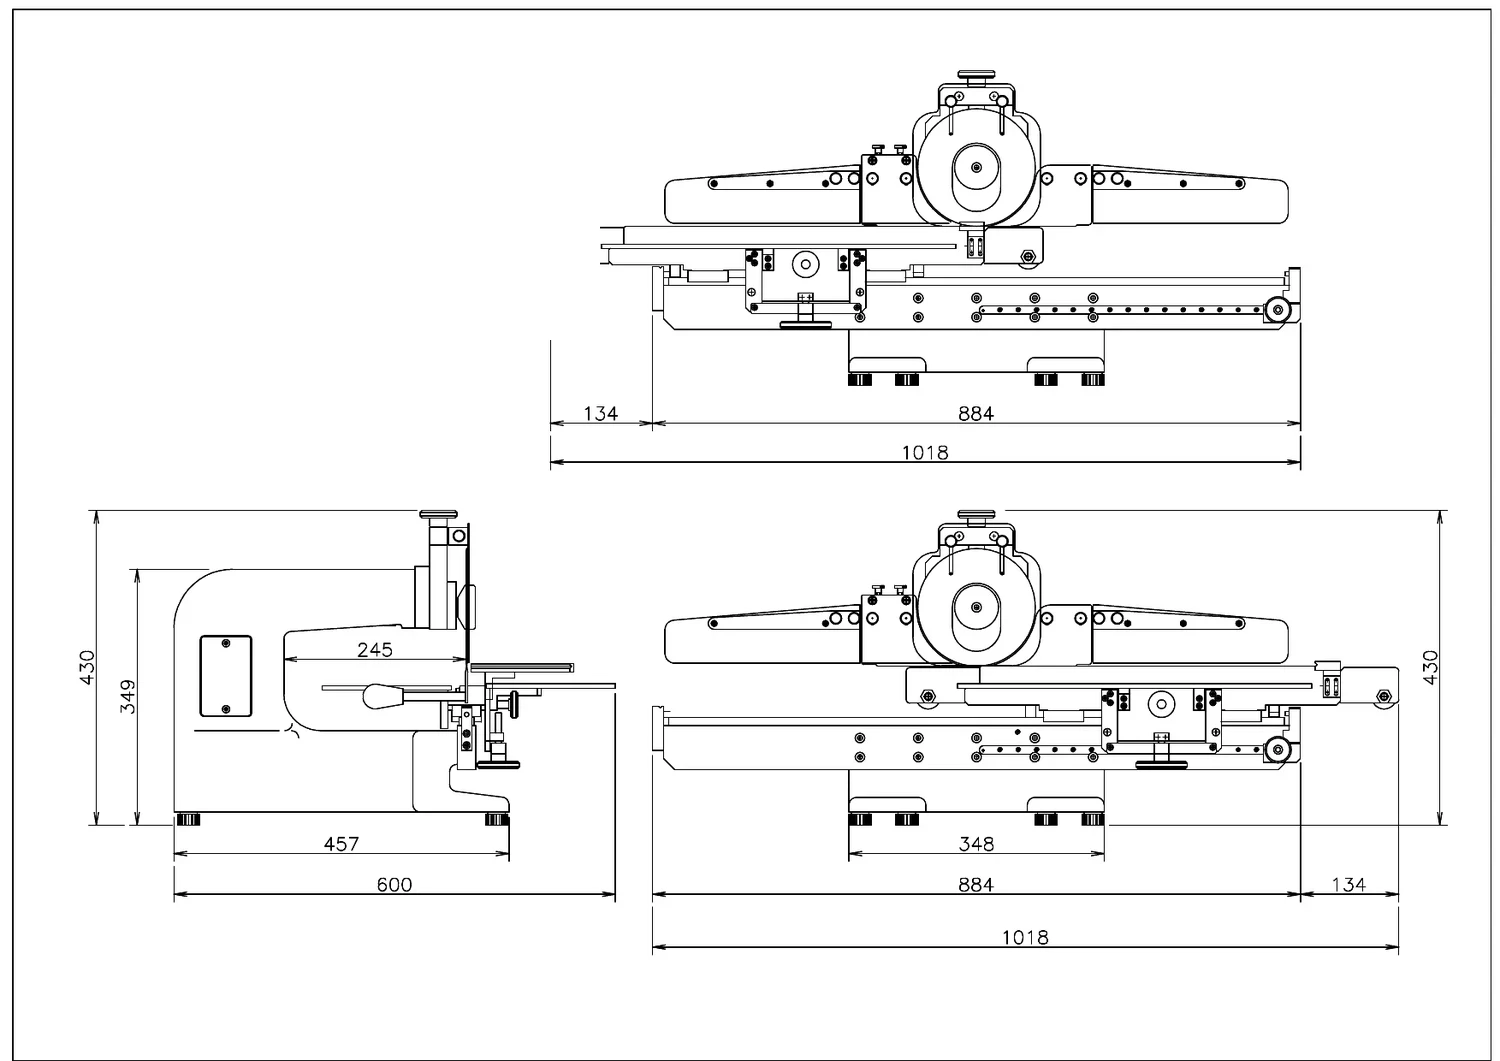
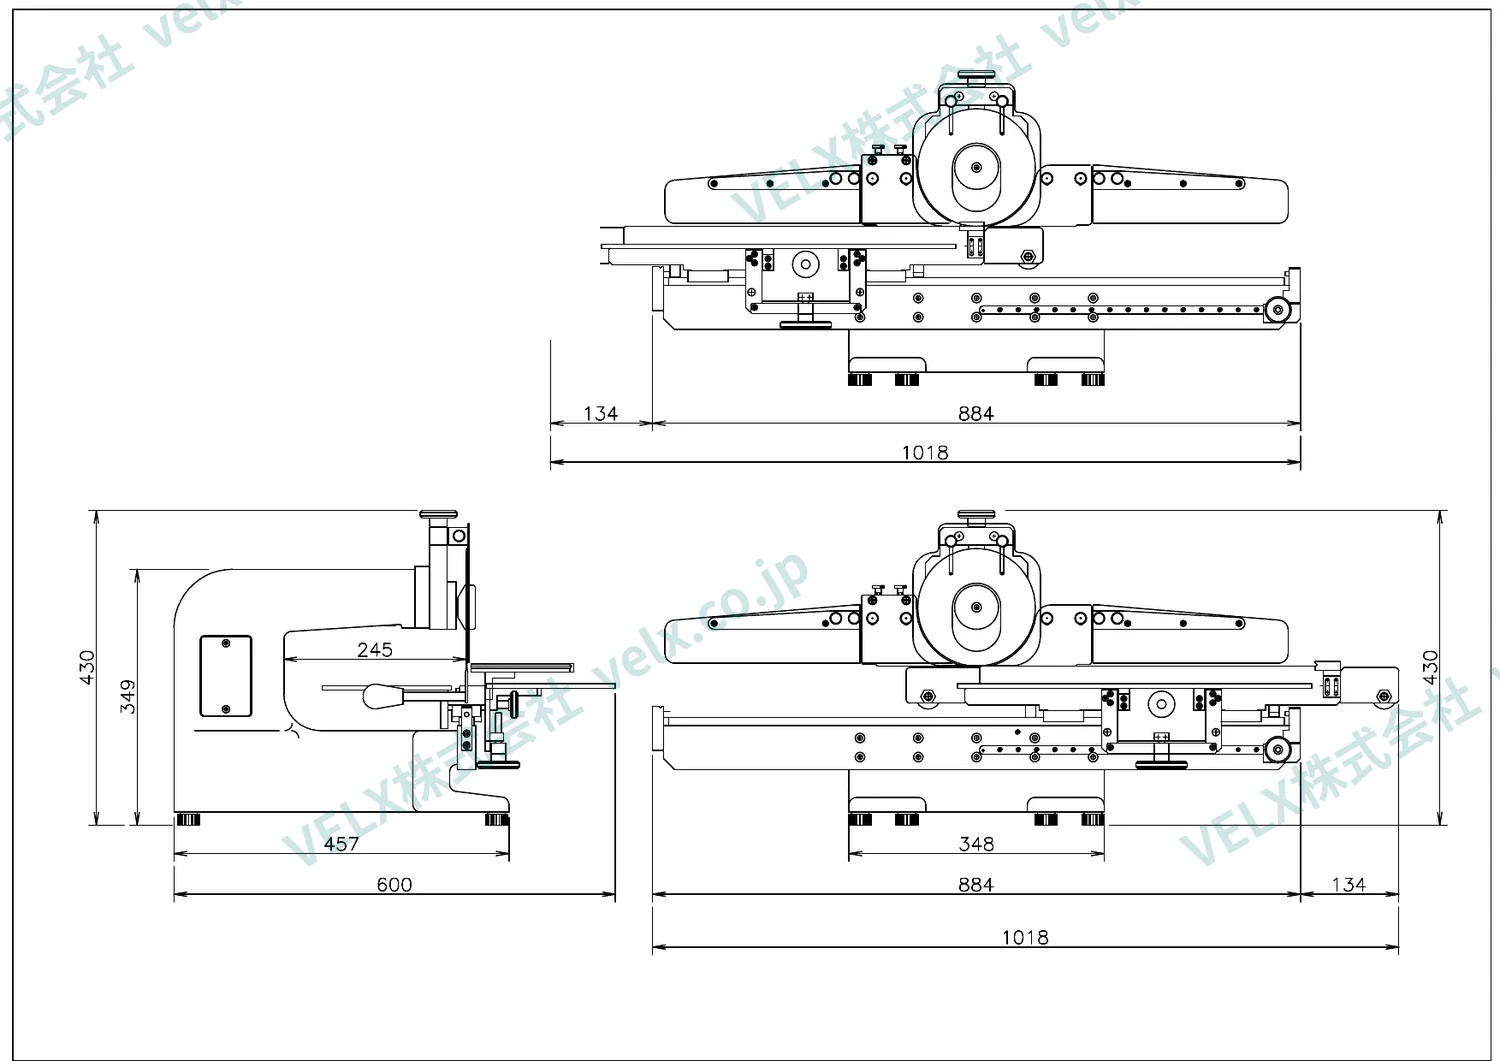
図面に透かし（VELX株式会社 velx.co.jp）、画像の右クリック・ドラッグ抑止、無断転載禁止の表記を追加
Claude-Session: https://claude.ai/code/session_01LHPKKem9uMo18WqyhMpJ4j

diff --git a/products-splitter.html b/products-splitter.html
@@ -177,10 +177,10 @@
   <div class="note-box">1次側と2次側の両方に隙間調整機構を搭載。高密度実装基板や難しいV溝仕様の基板のひずみをさらに低減します。分割対応基板：FR4・CEM3・紙フェノール・アルミ・銅基板（V溝加工済みのもの）。分割方式は全機種とも手動（リニアスライス方式）、上刃・下刃はチタンIP処理です。</div>
   <div class="subh">外形図</div>
   <div class="dwg-grid">
-    <div class="dwg-card reveal"><div class="dwg-head"><span class="dwg-model">MS20</span><span class="dwg-note">外形図（単位：mm）</span></div><img src="images/dwg-ms20.webp" alt="MS20 外形図（単位：mm）" style="max-width:820px;margin:0 auto;"></div>
-    <div class="dwg-card reveal"><div class="dwg-head"><span class="dwg-model">MS25</span><span class="dwg-note">外形図（単位：mm）</span></div><img src="images/dwg-ms25.webp" alt="MS25 外形図（単位：mm）" style="max-width:760px;margin:0 auto;"></div>
-    <div class="dwg-card reveal"><div class="dwg-head"><span class="dwg-model">MW21</span><span class="dwg-note">外形図（単位：mm）</span></div><img src="images/dwg-mw21.webp" alt="MW21 外形図（単位：mm）" style="max-width:800px;margin:0 auto;"></div>
-    <div class="dwg-card reveal"><div class="dwg-head"><span class="dwg-model">MW25</span><span class="dwg-note">外形図（単位：mm）</span></div><img src="images/dwg-mw25.webp" alt="MW25 外形図（単位：mm）" style="max-width:760px;margin:0 auto;"></div>
+    <div class="dwg-card reveal"><div class="dwg-head"><span class="dwg-model">MS20</span><span class="dwg-note">外形図（単位：mm）　※無断転載を禁じます</span></div><img src="images/dwg-ms20.webp" alt="MS20 外形図（単位：mm）" style="max-width:820px;margin:0 auto;"></div>
+    <div class="dwg-card reveal"><div class="dwg-head"><span class="dwg-model">MS25</span><span class="dwg-note">外形図（単位：mm）　※無断転載を禁じます</span></div><img src="images/dwg-ms25.webp" alt="MS25 外形図（単位：mm）" style="max-width:760px;margin:0 auto;"></div>
+    <div class="dwg-card reveal"><div class="dwg-head"><span class="dwg-model">MW21</span><span class="dwg-note">外形図（単位：mm）　※無断転載を禁じます</span></div><img src="images/dwg-mw21.webp" alt="MW21 外形図（単位：mm）" style="max-width:800px;margin:0 auto;"></div>
+    <div class="dwg-card reveal"><div class="dwg-head"><span class="dwg-model">MW25</span><span class="dwg-note">外形図（単位：mm）　※無断転載を禁じます</span></div><img src="images/dwg-mw25.webp" alt="MW25 外形図（単位：mm）" style="max-width:760px;margin:0 auto;"></div>
   </div>
   <div class="subh">交換刃</div>
   <table class="stbl">
@@ -247,7 +247,7 @@
     </div>
   </div>
   <div class="footer-bottom">
-    <span class="footer-copy">© 2026 VELX株式会社. All Rights Reserved.</span>
+    <span class="footer-copy">© 2026 VELX株式会社. All Rights Reserved.<div class="footer-notice">当サイトに掲載の図面・写真・文章の無断転載・複製を禁じます。</div></span>
     <span class="footer-copy" style="opacity:0.5">velx.co.jp</span>
   </div>
 </footer>

diff --git a/products-motor.html b/products-motor.html
@@ -147,9 +147,9 @@
   <p class="crk-p" style="margin-top:12px;">上刃（EMD16 系）・モーター・切替機構・コントロールユニット・電力仕様は3機種で共通です。</p>
   <div class="subh">外形図</div>
   <div class="dwg-grid">
-    <div class="dwg-card reveal"><div class="dwg-head"><span class="dwg-model">EM260M</span><span class="dwg-note">外形図（単位：mm）</span></div><img src="images/dwg-em260m.webp" alt="EM260M 外形図（単位：mm）" style="max-width:880px;margin:0 auto;"></div>
-    <div class="dwg-card reveal"><div class="dwg-head"><span class="dwg-model">EM360M</span><span class="dwg-note">外形図（単位：mm）</span></div><img src="images/dwg-em360m.webp" alt="EM360M 外形図（単位：mm）" style="max-width:880px;margin:0 auto;"></div>
-    <div class="dwg-card reveal"><div class="dwg-head"><span class="dwg-model">EM460M</span><span class="dwg-note">外形図（単位：mm）</span></div><img src="images/dwg-em460m.webp" alt="EM460M 外形図（単位：mm）" style="max-width:880px;margin:0 auto;"></div>
+    <div class="dwg-card reveal"><div class="dwg-head"><span class="dwg-model">EM260M</span><span class="dwg-note">外形図（単位：mm）　※無断転載を禁じます</span></div><img src="images/dwg-em260m.webp" alt="EM260M 外形図（単位：mm）" style="max-width:880px;margin:0 auto;"></div>
+    <div class="dwg-card reveal"><div class="dwg-head"><span class="dwg-model">EM360M</span><span class="dwg-note">外形図（単位：mm）　※無断転載を禁じます</span></div><img src="images/dwg-em360m.webp" alt="EM360M 外形図（単位：mm）" style="max-width:880px;margin:0 auto;"></div>
+    <div class="dwg-card reveal"><div class="dwg-head"><span class="dwg-model">EM460M</span><span class="dwg-note">外形図（単位：mm）　※無断転載を禁じます</span></div><img src="images/dwg-em460m.webp" alt="EM460M 外形図（単位：mm）" style="max-width:880px;margin:0 auto;"></div>
   </div>
   <div class="note-box reveal">交換刃はシングル機種（手動）と共通です（上刃 EMD系／下刃 EML系）。</div>
 </section>
@@ -208,7 +208,7 @@
     </div>
   </div>
   <div class="footer-bottom">
-    <span class="footer-copy">© 2026 VELX株式会社. All Rights Reserved.</span>
+    <span class="footer-copy">© 2026 VELX株式会社. All Rights Reserved.<div class="footer-notice">当サイトに掲載の図面・写真・文章の無断転載・複製を禁じます。</div></span>
     <span class="footer-copy" style="opacity:0.5">velx.co.jp</span>
   </div>
 </footer>

diff --git a/products-single.html b/products-single.html
@@ -155,9 +155,9 @@
   </div>
   <div class="subh">外形図</div>
   <div class="dwg-grid">
-    <div class="dwg-card reveal"><div class="dwg-head"><span class="dwg-model">EM260</span><span class="dwg-note">外形図（単位：mm）</span></div><img src="images/dwg-em260.webp" alt="EM260 外形図（単位：mm）" style="max-width:880px;margin:0 auto;"></div>
-    <div class="dwg-card reveal"><div class="dwg-head"><span class="dwg-model">EM360</span><span class="dwg-note">外形図（単位：mm）</span></div><img src="images/dwg-em360.webp" alt="EM360 外形図（単位：mm）" style="max-width:880px;margin:0 auto;"></div>
-    <div class="dwg-card reveal"><div class="dwg-head"><span class="dwg-model">EM460</span><span class="dwg-note">外形図（単位：mm）</span></div><img src="images/dwg-em460.webp" alt="EM460 外形図（単位：mm）" style="max-width:880px;margin:0 auto;"></div>
+    <div class="dwg-card reveal"><div class="dwg-head"><span class="dwg-model">EM260</span><span class="dwg-note">外形図（単位：mm）　※無断転載を禁じます</span></div><img src="images/dwg-em260.webp" alt="EM260 外形図（単位：mm）" style="max-width:880px;margin:0 auto;"></div>
+    <div class="dwg-card reveal"><div class="dwg-head"><span class="dwg-model">EM360</span><span class="dwg-note">外形図（単位：mm）　※無断転載を禁じます</span></div><img src="images/dwg-em360.webp" alt="EM360 外形図（単位：mm）" style="max-width:880px;margin:0 auto;"></div>
+    <div class="dwg-card reveal"><div class="dwg-head"><span class="dwg-model">EM460</span><span class="dwg-note">外形図（単位：mm）　※無断転載を禁じます</span></div><img src="images/dwg-em460.webp" alt="EM460 外形図（単位：mm）" style="max-width:880px;margin:0 auto;"></div>
   </div>
   <div class="subh">交換刃</div>
   <div class="two-col">
@@ -236,7 +236,7 @@
     </div>
   </div>
   <div class="footer-bottom">
-    <span class="footer-copy">© 2026 VELX株式会社. All Rights Reserved.</span>
+    <span class="footer-copy">© 2026 VELX株式会社. All Rights Reserved.<div class="footer-notice">当サイトに掲載の図面・写真・文章の無断転載・複製を禁じます。</div></span>
     <span class="footer-copy" style="opacity:0.5">velx.co.jp</span>
   </div>
 </footer>

diff --git a/products-double.html b/products-double.html
@@ -141,8 +141,8 @@
   </div>
   <div class="subh">外形図</div>
   <div class="dwg-grid">
-    <div class="dwg-card reveal"><div class="dwg-head"><span class="dwg-model">EMW360</span><span class="dwg-note">外形図（単位：mm）</span></div><img src="images/dwg-emw360.webp" alt="EMW360 外形図（単位：mm）" style="max-width:880px;margin:0 auto;"></div>
-    <div class="dwg-card reveal"><div class="dwg-head"><span class="dwg-model">EMW460</span><span class="dwg-note">外形図（単位：mm）</span></div><img src="images/dwg-emw460.webp" alt="EMW460 外形図（単位：mm）" style="max-width:880px;margin:0 auto;"></div>
+    <div class="dwg-card reveal"><div class="dwg-head"><span class="dwg-model">EMW360</span><span class="dwg-note">外形図（単位：mm）　※無断転載を禁じます</span></div><img src="images/dwg-emw360.webp" alt="EMW360 外形図（単位：mm）" style="max-width:880px;margin:0 auto;"></div>
+    <div class="dwg-card reveal"><div class="dwg-head"><span class="dwg-model">EMW460</span><span class="dwg-note">外形図（単位：mm）　※無断転載を禁じます</span></div><img src="images/dwg-emw460.webp" alt="EMW460 外形図（単位：mm）" style="max-width:880px;margin:0 auto;"></div>
   </div>
   <div class="subh">交換刃</div>
   <table class="stbl">
@@ -207,7 +207,7 @@
     </div>
   </div>
   <div class="footer-bottom">
-    <span class="footer-copy">© 2026 VELX株式会社. All Rights Reserved.</span>
+    <span class="footer-copy">© 2026 VELX株式会社. All Rights Reserved.<div class="footer-notice">当サイトに掲載の図面・写真・文章の無断転載・複製を禁じます。</div></span>
     <span class="footer-copy" style="opacity:0.5">velx.co.jp</span>
   </div>
 </footer>

diff --git a/products-disc.html b/products-disc.html
@@ -144,7 +144,7 @@
   </div>
   <div class="subh">外形図</div>
   <div class="dwg-grid">
-    <div class="dwg-card reveal"><div class="dwg-head"><span class="dwg-model">EM-2DF</span><span class="dwg-note">外形図（単位：mm）</span></div><img src="images/dwg-em2df.webp" alt="EM-2DF 外形図（単位：mm）" style="max-width:880px;margin:0 auto;"></div>
+    <div class="dwg-card reveal"><div class="dwg-head"><span class="dwg-model">EM-2DF</span><span class="dwg-note">外形図（単位：mm）　※無断転載を禁じます</span></div><img src="images/dwg-em2df.webp" alt="EM-2DF 外形図（単位：mm）" style="max-width:880px;margin:0 auto;"></div>
   </div>
   <div class="warn-box reveal">⚠ 上下丸刃タイプは点接触のため、V溝際に衝撃に弱い部品が実装されている場合は基板仕様の確認が必要です。中抜き基板・部品がV溝際にある場合はシングル／ダブル機種をご検討ください。EM-2DF は基板の部品ひずみテストを行ったうえでの販売となります。</div>
 </section>
@@ -203,7 +203,7 @@
     </div>
   </div>
   <div class="footer-bottom">
-    <span class="footer-copy">© 2026 VELX株式会社. All Rights Reserved.</span>
+    <span class="footer-copy">© 2026 VELX株式会社. All Rights Reserved.<div class="footer-notice">当サイトに掲載の図面・写真・文章の無断転載・複製を禁じます。</div></span>
     <span class="footer-copy" style="opacity:0.5">velx.co.jp</span>
   </div>
 </footer>

diff --git a/assets/site.css b/assets/site.css
@@ -864,3 +864,8 @@ table.stbl th { background: var(--silver-light); font-weight: 500; white-space: 
 .crumbs { font-size: 0.82rem; color: var(--silver-dark); margin-bottom: 26px; }
 .crumbs a { color: var(--silver-dark); text-decoration: none; }
 .crumbs a:hover { color: var(--teal); }
+
+/* 画像の保存・ドラッグ抑止（2026-09-07） */
+img, svg { -webkit-user-drag: none; user-drag: none; -webkit-user-select: none; user-select: none; -webkit-touch-callout: none; }
+.dwg-card img { pointer-events: none; }
+.footer-notice { font-size: 0.72rem; color: rgba(255,255,255,0.35); margin-top: 8px; line-height: 1.7; }

diff --git a/assets/site.js b/assets/site.js
@@ -15,3 +15,7 @@ const observer = new IntersectionObserver(entries => {
   entries.forEach(e => { if (e.isIntersecting) e.target.classList.add('visible'); });
 }, { threshold: 0.08, rootMargin: '0px 0px -40px 0px' });
 document.querySelectorAll('.reveal').forEach(el => observer.observe(el));
+
+// 画像の右クリック・ドラッグ・長押し保存の抑止（2026-09-07）
+document.addEventListener('contextmenu', e => { if (e.target.closest('img, svg, .dwg-card')) e.preventDefault(); });
+document.addEventListener('dragstart', e => { if (e.target.closest('img, svg')) e.preventDefault(); });

diff --git a/blade.html b/blade.html
@@ -179,7 +179,7 @@
     </div>
   </div>
   <div class="footer-bottom">
-    <span class="footer-copy">© 2026 VELX株式会社. All Rights Reserved.</span>
+    <span class="footer-copy">© 2026 VELX株式会社. All Rights Reserved.<div class="footer-notice">当サイトに掲載の図面・写真・文章の無断転載・複製を禁じます。</div></span>
     <span class="footer-copy" style="opacity:0.5">velx.co.jp</span>
   </div>
 </footer>

diff --git a/features.html b/features.html
@@ -308,7 +308,7 @@
     </div>
   </div>
   <div class="footer-bottom">
-    <span class="footer-copy">© 2026 VELX株式会社. All Rights Reserved.</span>
+    <span class="footer-copy">© 2026 VELX株式会社. All Rights Reserved.<div class="footer-notice">当サイトに掲載の図面・写真・文章の無断転載・複製を禁じます。</div></span>
     <span class="footer-copy" style="opacity:0.5">velx.co.jp</span>
   </div>
 </footer>

diff --git a/index.html b/index.html
@@ -441,7 +441,7 @@
     </div>
   </div>
   <div class="footer-bottom">
-    <span class="footer-copy">© 2026 VELX株式会社. All Rights Reserved.</span>
+    <span class="footer-copy">© 2026 VELX株式会社. All Rights Reserved.<div class="footer-notice">当サイトに掲載の図面・写真・文章の無断転載・複製を禁じます。</div></span>
     <span class="footer-copy" style="opacity:0.5">velx.co.jp</span>
   </div>
 </footer>

diff --git a/products.html b/products.html
@@ -188,7 +188,7 @@
     </div>
   </div>
   <div class="footer-bottom">
-    <span class="footer-copy">© 2026 VELX株式会社. All Rights Reserved.</span>
+    <span class="footer-copy">© 2026 VELX株式会社. All Rights Reserved.<div class="footer-notice">当サイトに掲載の図面・写真・文章の無断転載・複製を禁じます。</div></span>
     <span class="footer-copy" style="opacity:0.5">velx.co.jp</span>
   </div>
 </footer>

diff --git a/reliability.html b/reliability.html
@@ -230,7 +230,7 @@
     </div>
   </div>
   <div class="footer-bottom">
-    <span class="footer-copy">© 2026 VELX株式会社. All Rights Reserved.</span>
+    <span class="footer-copy">© 2026 VELX株式会社. All Rights Reserved.<div class="footer-notice">当サイトに掲載の図面・写真・文章の無断転載・複製を禁じます。</div></span>
     <span class="footer-copy" style="opacity:0.5">velx.co.jp</span>
   </div>
 </footer>
